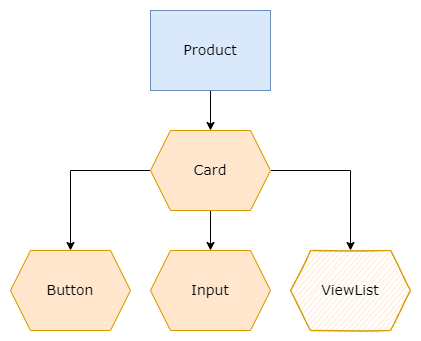
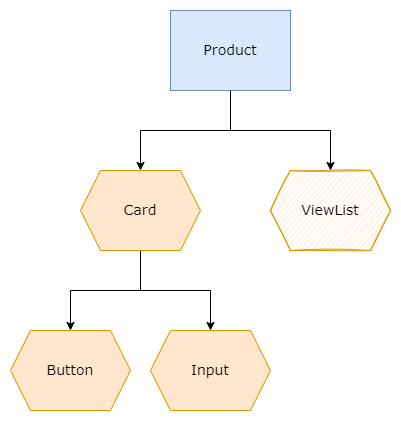
Correct diagram fro Product component

diff --git a/lesson.md b/lesson.md
@@ -20,7 +20,7 @@ In React, data flows in a single-direction, from a parent to a child component. 
 
 If a child component has actions that would change the state of its parent in any way, e.g. an input component that receives user keystrokes, it must relay the result back to the parent. The state change is triggered via a callback function that is sent from the parent as a prop. Such a callback function is usually a handler that would call the `useState` update function to change the state, i.e. *inverse data flow*.
 
-![Uni-directional Data Flow](./assets/uni-data-flow.png)
+![Uni-directional Data Flow](./assets/parent-child-data-callback.png)
 
 Once the parent's state is updated, it will propagate to the rest of the children under its component tree. The children components will then update its own internal views according to the new state update.
 
@@ -54,7 +54,7 @@ Containers contain the business logic of the application. They can make API call
 
 ## Part 1: Refactor the Parent Component
 
-Refactor 'Product.js' by splitting up the component into smaller logical container and presentational components. The starter 'Product' component relationship looks like the following:
+Refactor `Product.js` by splitting up the component into smaller logical container and presentational components. The starter `Product` component relationship looks like the following:
 
 ![Product component relationship diagram](assets/components-begin.png)
 
@@ -67,7 +67,7 @@ Refactor `Product` and move the presentational parts into a new `Card` component
 - Receives data and handler functions from `Product` as props
 - Displays data output
 - Accepts user input using `Input`
-- Provision a new `View` component to display product data
+- Provision a new `ViewList` component to display product data
 
 ![Final Product](assets/components-final.png)
 
